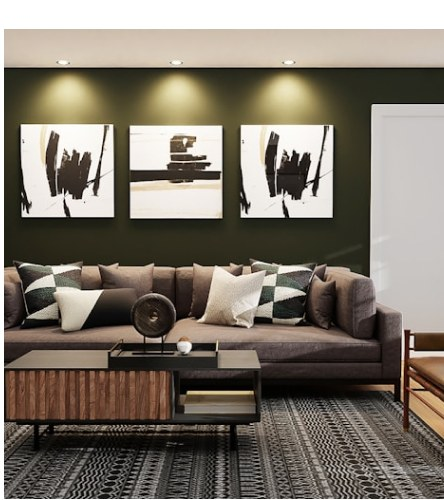
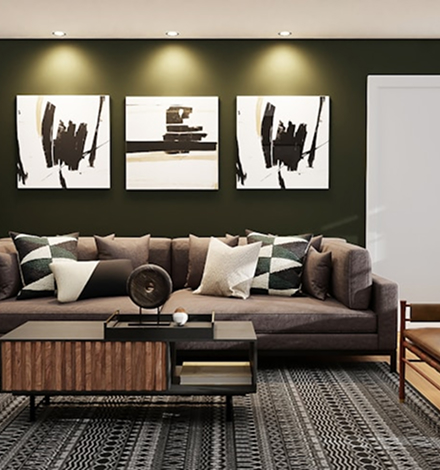
가구-리빙룸 스타일 영역 완료

diff --git a/Velora/index.html b/Velora/index.html
@@ -199,16 +199,15 @@
         <a href="#" class="link-more link-more--text">View more</a>
       </div>
 
-      <ul class="gallery__list" id="galleryList" tabindex="0" aria-label="고객 리빙룸 스타일 이미지 목록, 좌우로 스크롤 가능">
-        <li><img src="./img/gallery/room-1.jpg" alt="화이트 톤 리빙룸, 사이드 테이블 위 책과 잡지 데코" loading="lazy" /></li>
-        <li><img src="./img/gallery/room-2.jpg" alt="따뜻한 창가 조명 아래 놓인 올리브 컬러 패브릭 소파" loading="lazy" /></li>
-        <li><img src="./img/gallery/room-3.jpg" alt="다크 그린 벽면과 액자 3연작이 있는 거실" loading="lazy" /></li>
-        <li><img src="./img/gallery/room-4.jpg" alt="원목 선반과 데스크가 있는 미니멀 공간" loading="lazy" /></li>
-        <li><img src="./img/gallery/room-5.jpg" alt="펜던트 조명과 라운드 테이블이 있는 리빙 공간" loading="lazy" /></li>
-        <li><img src="./img/gallery/room-5.jpg" alt="펜던트 조명과 라운드 테이블이 있는 리빙 공간" loading="lazy" /></li>
-        <li><img src="./img/gallery/room-5.jpg" alt="펜던트 조명과 라운드 테이블이 있는 리빙 공간" loading="lazy" /></li>
-        <li><img src="./img/gallery/room-5.jpg" alt="펜던트 조명과 라운드 테이블이 있는 리빙 공간" loading="lazy" /></li>
-      </ul>
+      <div class="gallery__viewport">
+        <ul class="gallery__list" id="galleryList" aria-label="고객 리빙룸 스타일 이미지 목록">
+          <li><img src="./img/gallery/room-1.jpg" alt="화이트 톤 리빙룸, 사이드 테이블 위 책과 잡지 데코" loading="lazy" /></li>
+          <li><img src="./img/gallery/room-2.jpg" alt="따뜻한 창가 조명 아래 놓인 올리브 컬러 패브릭 소파" loading="lazy" /></li>
+          <li><img src="./img/gallery/room-3.jpg" alt="다크 그린 벽면과 액자 3연작이 있는 거실" loading="lazy" /></li>
+          <li><img src="./img/gallery/room-4.jpg" alt="원목 선반과 데스크가 있는 미니멀 공간" loading="lazy" /></li>
+          <li><img src="./img/gallery/room-5.jpg" alt="펜던트 조명과 라운드 테이블이 있는 리빙 공간" loading="lazy" /></li>
+        </ul>
+      </div>
     </section>
 
     <section class="store" id="store" aria-labelledby="store-heading">

diff --git a/Velora/js/script.js b/Velora/js/script.js
@@ -147,50 +147,19 @@ function initProductsTabs() {
 }
 
 /* ---------------------------------------------------------------------- */
-/* Gallery: mouse drag-to-scroll (touch/trackpad already native)          */
+/* Gallery: seamless auto-flowing marquee                                 */
 /* ---------------------------------------------------------------------- */
 function initGalleryDrag() {
   const list = document.getElementById('galleryList');
   if (!list) return;
 
-  let isDown = false;
-  let startX = 0;
-  let startScroll = 0;
-  let moved = false;
-
-  list.addEventListener('pointerdown', (e) => {
-    if (e.pointerType === 'touch') return;
-    isDown = true;
-    moved = false;
-    startX = e.clientX;
-    startScroll = list.scrollLeft;
-    list.setPointerCapture(e.pointerId);
-  });
-
-  list.addEventListener('pointermove', (e) => {
-    if (!isDown) return;
-    const delta = e.clientX - startX;
-    if (Math.abs(delta) > 4) moved = true;
-    list.scrollLeft = startScroll - delta;
-  });
-
-  const stop = () => {
-    isDown = false;
-  };
-  list.addEventListener('pointerup', stop);
-  list.addEventListener('pointerleave', stop);
-
-  list.addEventListener(
-    'click',
-    (e) => {
-      if (moved) e.preventDefault();
-    },
-    true
-  );
-
-  list.addEventListener('keydown', (e) => {
-    if (e.key === 'ArrowRight') list.scrollBy({ left: 240, behavior: 'smooth' });
-    if (e.key === 'ArrowLeft') list.scrollBy({ left: -240, behavior: 'smooth' });
+  // 무한 루프처럼 보이도록 목록을 통째로 복제해 이어붙인다 (translateX(-50%)로 되감기).
+  const originalItems = [...list.children];
+  originalItems.forEach((li) => {
+    const clone = li.cloneNode(true);
+    clone.setAttribute('aria-hidden', 'true');
+    clone.querySelectorAll('img').forEach((img) => img.removeAttribute('loading'));
+    list.appendChild(clone);
   });
 }
 

diff --git a/Velora/css/style.css b/Velora/css/style.css
@@ -626,33 +626,50 @@ li {
   margin-bottom: 32px;
 }
 
-.gallery__list {
-  display: flex;
-  gap: 12px;
-  overflow-x: auto;
-  padding: 4px 24px 12px;
-  scroll-snap-type: x proximity;
-  cursor: grab;
-  scrollbar-width: thin;
-  scrollbar-color: var(--color-line) transparent;
+.gallery__viewport {
+  overflow: hidden;
+  padding: 4px 0 12px;
+  -webkit-mask-image: linear-gradient(to right, transparent 0, #000 24px, #000 calc(100% - 24px), transparent 100%);
+  mask-image: linear-gradient(to right, transparent 0, #000 24px, #000 calc(100% - 24px), transparent 100%);
 }
 
-.gallery__list:active {
-  cursor: grabbing;
+.gallery__list {
+  display: flex;
+  width: max-content;
+  gap: 12px;
+  padding: 0 24px;
+  animation: gallery-flow 32s linear infinite;
+}
+
+.gallery__viewport:hover .gallery__list,
+.gallery__list:focus-within {
+  animation-play-state: paused;
+}
+
+@keyframes gallery-flow {
+  to {
+    transform: translateX(-50%);
+  }
+}
+
+@media (prefers-reduced-motion: reduce) {
+  .gallery__list {
+    animation: none;
+  }
 }
 
 .gallery__list li {
   flex: 0 0 auto;
-  scroll-snap-align: start;
-  width: clamp(220px, 22vw, 318px);
-  aspect-ratio: 318 / 500;
+  height: clamp(280px, 34vw, 500px);
   overflow: hidden;
   border-radius: 2px;
+  box-shadow: inset 0 0 0 1px rgba(38, 36, 33, 0.08);
 }
 
 .gallery__list img {
-  width: 100%;
+  width: auto;
   height: 100%;
+  max-width: none;
   object-fit: cover;
   transition: transform var(--transition);
 }
@@ -1217,6 +1234,6 @@ li {
   }
 
   .gallery__list li {
-    width: 68vw;
+    height: 280px;
   }
 }
